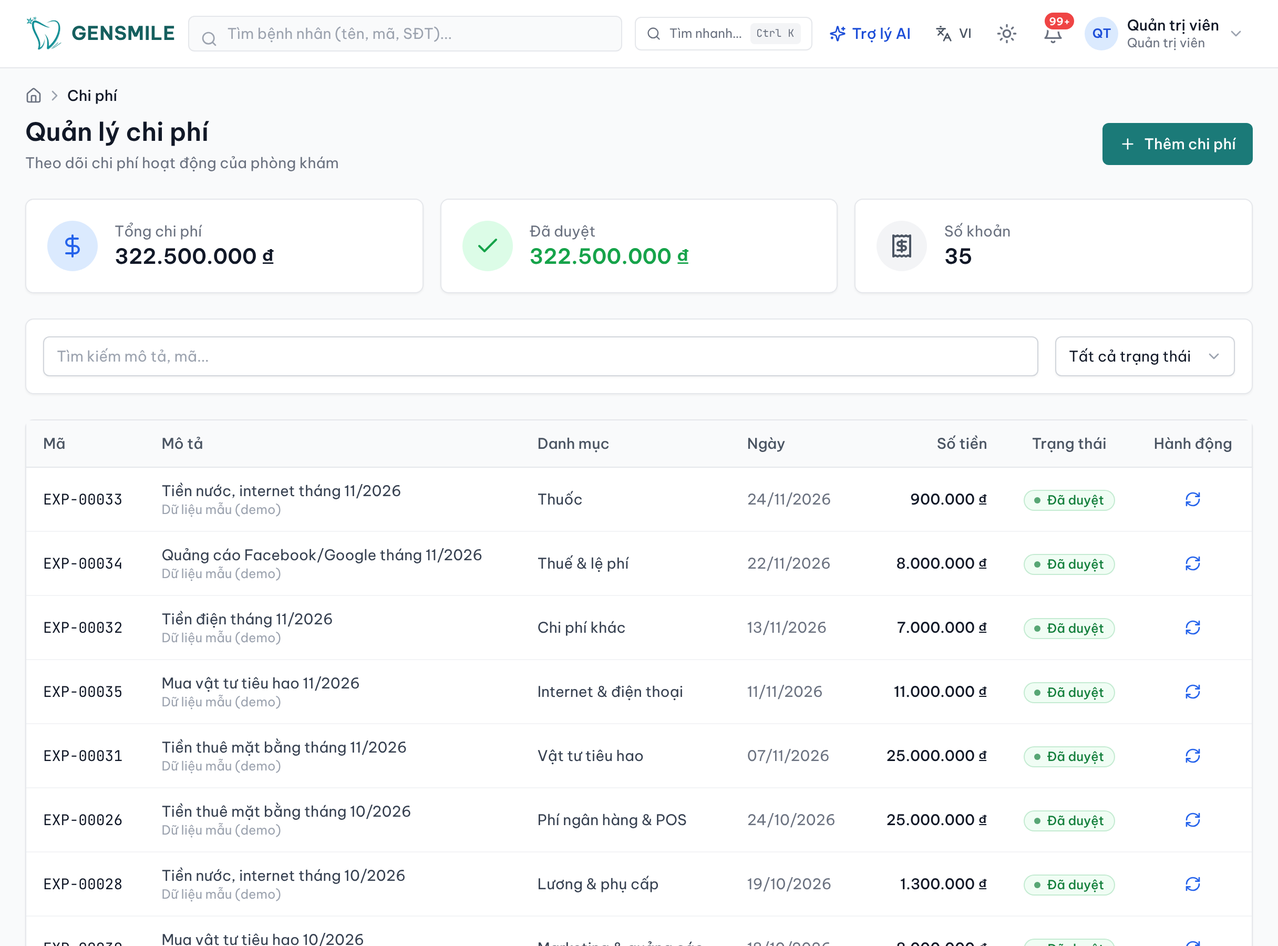
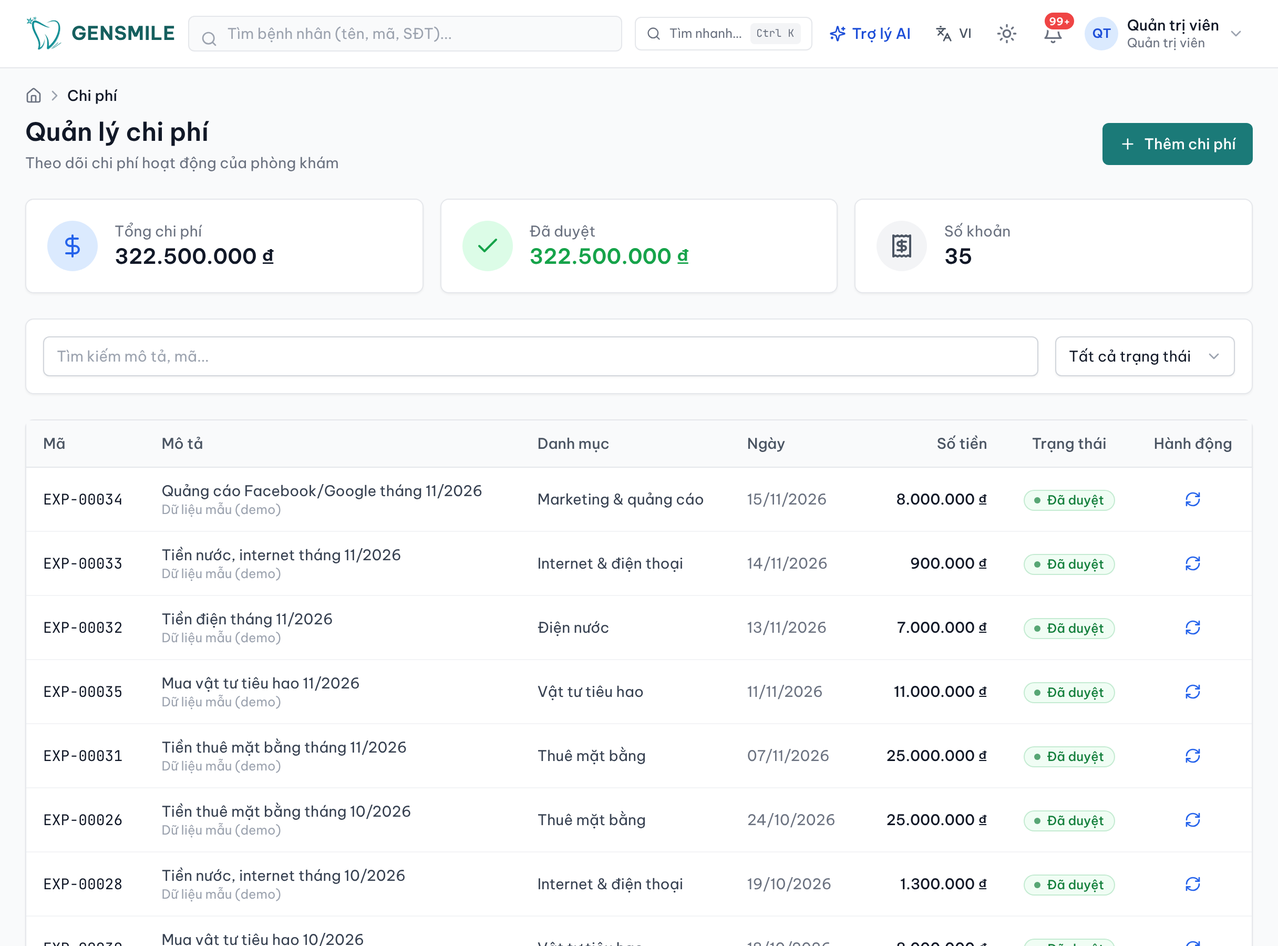
fix: nhãn tiếng Việt cho nhật ký kiểm toán, seed chi phí đúng danh mục; docs(thesis): chụp lại Hình 4.33, 4.39
Claude-Session: https://claude.ai/code/session_01TBoubatqgAjjLj8yNYh2bv

diff --git a/frontend/src/locales/uiWorkforce.ts b/frontend/src/locales/uiWorkforce.ts
@@ -23,7 +23,7 @@ export const vi = {
   groupCode: 'Mã nhóm', groupName: 'Tên nhóm', displayOrder: 'Thứ tự hiển thị', createCategoryFirst: 'Tạo nhóm dịch vụ trước', serviceImpactError: 'Không kiểm tra được dịch vụ', serviceDeactivated: 'Đã ngừng dịch vụ; các phân công đang chạy kết thúc hôm nay', serviceRestoredAssignments: 'Đã mở lại dịch vụ và khôi phục {{count}} phân công', serviceReactivated: 'Đã mở lại dịch vụ', serviceStatusError: 'Không đổi được trạng thái', groupStatusError: 'Không đổi được trạng thái nhóm', discontinued: 'Đã ngừng', paidAssignmentsWarning: '{{count}} phân công có giá riêng > 0: trang chủ sẽ hiện giá đó', editServiceNamed: 'Sửa {{name}}', discontinue: 'Ngừng', reopen: 'Mở lại', editGroupNamed: 'Sửa nhóm {{name}}', categoryCreated: 'Đã tạo nhóm dịch vụ',
   confirmDiscontinueService: 'Ngừng dịch vụ {{name}}?', discontinueService: 'Ngừng dịch vụ', serviceHasBookings: 'Đang có', upcomingAppointmentCount: '{{count}} lịch hẹn sắp tới', pendingBookingCount: '{{count}} yêu cầu đặt lịch online đang chờ xử lý', and: 'và', serviceBookingsWarning: 'dùng dịch vụ này. Chúng không bị hủy: lịch đã đặt vẫn dời được và khi khám vẫn ghi được dịch vụ theo giá đã chốt. Nếu không làm dịch vụ này nữa, hãy báo khách và hủy rồi đặt lại lịch.', noServiceBookings: 'Không có lịch hẹn sắp tới hay yêu cầu online đang chờ dùng dịch vụ này.', openAssignmentCount: '{{count}} phân công bác sĩ sẽ', assignmentEndToday: 'kết thúc hôm nay; phân công chưa bắt đầu sẽ bị hủy. Khi mở lại dịch vụ, bạn có thể khôi phục chúng.', confirmReopenService: 'Mở lại dịch vụ {{name}}?', restorableAssignments: '{{count}} phân công bác sĩ có thể được khôi phục từ hôm nay, giữ nguyên giá và thời lượng riêng. Khôi phục luôn hay phân công lại sau?', noRestorableAssignments: 'Không có phân công nào để khôi phục. Sau khi mở lại, hãy phân công bác sĩ ở trang Bác sĩ.', reopenOnly: 'Chỉ mở lại dịch vụ', reopenRestoreAssignments: 'Mở lại và khôi phục phân công',
   shiftCancelTooLate: 'Ca làm việc cần được hủy trước ít nhất 24 giờ.', shiftCancelError: 'Không thể hủy ca làm việc.', shiftApprovalTitle: 'Duyệt đăng ký ca làm việc', shiftApprovalAdminTitle: 'Duyệt đăng ký ca làm việc (quản trị)', shiftRequestsWaiting: '{{count}} yêu cầu đang chờ duyệt', shiftApproveSelected: 'Duyệt {{count}} ca', shiftNoPendingRequests: 'Không có đăng ký ca đang chờ duyệt.', shiftAllProcessed: 'Đã xử lý tất cả đăng ký ca.', shiftDate: 'Ngày', shiftTime: 'Giờ', shiftMaxPatients: 'Số bệnh nhân tối đa', shiftRegisteredAt: 'Ngày đăng ký', shiftApprove: 'Duyệt', shiftReject: 'Từ chối', shiftRejectTitle: 'Từ chối đăng ký ca', shiftRejectReason: 'Lý do từ chối', shiftRejectPlaceholder: 'Nhập lý do từ chối (ít nhất 5 ký tự)...', shiftRegisterTitle: 'Đăng ký ca làm việc', shiftStartTime: 'Giờ bắt đầu', shiftEndTime: 'Giờ kết thúc', shiftOptionalMaxPatients: 'Số bệnh nhân tối đa (không bắt buộc)', shiftOptionalNotes: 'Ghi chú (không bắt buộc)', shiftNotesPlaceholder: 'Ví dụ: ca đặc biệt ngày lễ', shiftRegisterSuccess: 'Đã đăng ký ca làm việc.', shiftRegisterError: 'Không thể đăng ký ca làm việc.', shiftTimeRangeInvalid: 'Giờ kết thúc phải sau giờ bắt đầu.', shiftApproved: 'Đã duyệt ca làm việc.', shiftApproveError: 'Không thể duyệt ca làm việc.', shiftBulkApproveResult: 'Đã duyệt {{approved}}/{{total}} ca; {{failed}} ca thất bại.', shiftBulkApproved: 'Đã duyệt {{count}} ca.', shiftRejected: 'Đã từ chối đăng ký ca.', shiftRejectError: 'Không thể từ chối đăng ký ca.',
-  rolesCreateSuccess: 'Đã tạo vai trò.', rolesCreateError: 'Không thể tạo vai trò.', rolesUpdateSuccess: 'Đã cập nhật vai trò.', rolesUpdateError: 'Không thể cập nhật vai trò.', rolesDeleteSuccess: 'Đã xóa vai trò.', rolesDeleteError: 'Không thể xóa vai trò.', rolesTitle: 'Vai trò và quyền', rolesDescription: 'Quản lý quyền truy cập của nhân viên', rolesCreate: 'Tạo vai trò', rolesCode: 'Mã vai trò', rolesName: 'Tên vai trò', rolesUsers: 'Người dùng', rolesSystem: 'Hệ thống', roleEditTitle: 'Sửa vai trò: {{name}}', roleCreateTitle: 'Tạo vai trò mới', roleNamePlaceholder: 'Ví dụ: Bác sĩ cao cấp', roleDescriptionPlaceholder: 'Mô tả ngắn về vai trò này', rolePermissions: 'Quyền', roleCancel: 'Hủy', roleSave: 'Lưu thay đổi / Tạo', auditTitle: 'Nhật ký kiểm toán', auditDescription: 'Theo dõi hoạt động trên toàn hệ thống', auditExport: 'Xuất CSV (tất cả dòng đã lọc)', auditSearch: 'Tìm kiếm…', auditFilterAction: 'Lọc theo hành động', auditAllActions: 'Tất cả hành động', auditFilterTarget: 'Lọc theo đối tượng', auditAllTargets: 'Tất cả đối tượng', auditAction: 'Hành động', auditTarget: 'Đối tượng', auditActor: 'Người thực hiện', auditTime: 'Thời gian', auditEntityId: 'Mã đối tượng', auditExportLimit: 'Chỉ xuất {{count}} dòng mới nhất. Thu hẹp khoảng ngày để xuất phần còn lại.', auditExportError: 'Không thể xuất nhật ký. Vui lòng thử lại.', auditSystem: 'Hệ thống', auditNoLogs: 'Chưa có mục nhật ký nào', auditLoadMore: 'Tải thêm', auditDateFrom: 'Từ ngày', auditDateTo: 'Đến ngày', auditIp: 'Địa chỉ IP', auditInvoiceIssued: 'Đã phát hành hóa đơn', auditInvoiceVoid: 'Đã hủy hóa đơn', auditPaymentCreated: 'Đã ghi nhận thanh toán', auditPaymentReversed: 'Đã đảo thanh toán', auditUserCreated: 'Đã tạo người dùng', auditUserUpdated: 'Đã cập nhật người dùng', auditUserDeactivated: 'Đã vô hiệu hóa người dùng', auditPasswordReset: 'Đã đặt lại mật khẩu', auditEncounterCreated: 'Đã tạo phiên khám', auditEncounterClosed: 'Đã đóng phiên khám', auditInventoryAdjusted: 'Đã điều chỉnh tồn kho', auditUserRoleChanged: 'Đã đổi vai trò người dùng', auditRolePermissionsChanged: 'Đã đổi quyền của vai trò', auditLoginFailed: 'Đăng nhập thất bại', auditEntityUser: 'Người dùng', auditEntityAppointment: 'Lịch hẹn', auditEntityPatient: 'Bệnh nhân', auditEntityEncounter: 'Phiên khám', auditEntityInvoice: 'Hóa đơn', auditEntityPayment: 'Thanh toán', auditEntityInventory: 'Vật tư', auditEntityRole: 'Vai trò',
+  rolesCreateSuccess: 'Đã tạo vai trò.', rolesCreateError: 'Không thể tạo vai trò.', rolesUpdateSuccess: 'Đã cập nhật vai trò.', rolesUpdateError: 'Không thể cập nhật vai trò.', rolesDeleteSuccess: 'Đã xóa vai trò.', rolesDeleteError: 'Không thể xóa vai trò.', rolesTitle: 'Vai trò và quyền', rolesDescription: 'Quản lý quyền truy cập của nhân viên', rolesCreate: 'Tạo vai trò', rolesCode: 'Mã vai trò', rolesName: 'Tên vai trò', rolesUsers: 'Người dùng', rolesSystem: 'Hệ thống', roleEditTitle: 'Sửa vai trò: {{name}}', roleCreateTitle: 'Tạo vai trò mới', roleNamePlaceholder: 'Ví dụ: Bác sĩ cao cấp', roleDescriptionPlaceholder: 'Mô tả ngắn về vai trò này', rolePermissions: 'Quyền', roleCancel: 'Hủy', roleSave: 'Lưu thay đổi / Tạo', auditTitle: 'Nhật ký kiểm toán', auditDescription: 'Theo dõi hoạt động trên toàn hệ thống', auditExport: 'Xuất CSV (tất cả dòng đã lọc)', auditSearch: 'Tìm kiếm…', auditFilterAction: 'Lọc theo hành động', auditAllActions: 'Tất cả hành động', auditFilterTarget: 'Lọc theo đối tượng', auditAllTargets: 'Tất cả đối tượng', auditAction: 'Hành động', auditTarget: 'Đối tượng', auditActor: 'Người thực hiện', auditTime: 'Thời gian', auditEntityId: 'Mã đối tượng', auditExportLimit: 'Chỉ xuất {{count}} dòng mới nhất. Thu hẹp khoảng ngày để xuất phần còn lại.', auditExportError: 'Không thể xuất nhật ký. Vui lòng thử lại.', auditSystem: 'Hệ thống', auditNoLogs: 'Chưa có mục nhật ký nào', auditLoadMore: 'Tải thêm', auditDateFrom: 'Từ ngày', auditDateTo: 'Đến ngày', auditIp: 'Địa chỉ IP', auditInvoiceIssued: 'Đã phát hành hóa đơn', auditInvoiceVoid: 'Đã hủy hóa đơn', auditPaymentCreated: 'Đã ghi nhận thanh toán', auditMedicalRecordRead: 'Xem hồ sơ bệnh án', auditLoginSuccess: 'Đăng nhập', auditAppointmentAutoNoShow: 'Tự đánh vắng mặt', auditAppointmentCreated: 'Đặt lịch hẹn', auditAppointmentCompleted: 'Hoàn tất lịch hẹn', auditExamStarted: 'Bắt đầu khám', auditCheckinOverridden: 'Check-in ngoài giờ (có lý do)', auditAppointmentLeft: 'Khách về trước khi khám', auditShiftRegistered: 'Đăng ký ca', auditBookingSubmitted: 'Khách gửi yêu cầu đặt lịch', auditAiChat: 'Hỏi trợ lý AI', auditHistoryViewed: 'Bệnh nhân xem lịch sử khám', auditHistoryLinkIssued: 'Cấp đường dẫn tra cứu lịch sử', auditClinicalNoteSaved: 'Lưu ghi chú lâm sàng', auditPrescriptionCreated: 'Kê đơn thuốc', auditTreatmentCreated: 'Thêm điều trị', auditPeriodCreated: 'Tạo kỳ lương', auditPeriodComputed: 'Tính lương', auditPeriodLocked: 'Khóa số liệu kỳ lương', auditConsentWithdrawn: 'Rút lại đồng thuận', auditBankTransferRecorded: 'Tự ghi chuyển khoản', auditBankTransferFlagged: 'Chuyển khoản cần xử lý', auditRefreshReuse: 'Phát hiện dùng lại phiên', auditAllergyOverride: 'Kê đơn vượt cảnh báo dị ứng', auditPaymentReversed: 'Đã đảo thanh toán', auditUserCreated: 'Đã tạo người dùng', auditUserUpdated: 'Đã cập nhật người dùng', auditUserDeactivated: 'Đã vô hiệu hóa người dùng', auditPasswordReset: 'Đã đặt lại mật khẩu', auditEncounterCreated: 'Đã tạo phiên khám', auditEncounterClosed: 'Đã đóng phiên khám', auditInventoryAdjusted: 'Đã điều chỉnh tồn kho', auditUserRoleChanged: 'Đã đổi vai trò người dùng', auditRolePermissionsChanged: 'Đã đổi quyền của vai trò', auditLoginFailed: 'Đăng nhập thất bại', auditEntityUser: 'Người dùng', auditEntityAppointment: 'Lịch hẹn', auditEntityPatient: 'Bệnh nhân', auditEntityEncounter: 'Phiên khám', auditEntityInvoice: 'Hóa đơn', auditEntityPayment: 'Thanh toán', auditEntityInventory: 'Vật tư', auditEntityRole: 'Vai trò', auditEntityBookingRequest: 'Yêu cầu đặt lịch', auditEntityShift: 'Ca làm việc', auditEntityPayrollPeriod: 'Kỳ lương', auditEntityAi: 'Trợ lý AI', auditEntityConsent: 'Đồng thuận', auditEntityBankTransaction: 'Giao dịch ngân hàng',
   auditExporting: 'Đang xuất…', payrollMissingCompensation: 'Chưa cấu hình chính sách lương.', payrollAddCompensation: 'Thêm chính sách lương', payrollNoCompensation: 'Chưa có chính sách lương.', payrollBaseSalary: 'Lương cơ bản', payrollCommission: 'Hoa hồng', payrollEffectiveFrom: 'Có hiệu lực từ', payrollSelfApprovalTitle: 'Bạn đang duyệt lương của chính mình', payrollSelfApprovalDescription: 'Chỉ cho phép khi phòng khám không có quản trị viên nào khác; hành động được ghi nhật ký riêng.', payrollSelfApprovalReason: 'Lý do tự duyệt', payrollCancel: 'Hủy', payrollCreate: 'Tạo', payrollSave: 'Lưu', payrollAddAdjustment: 'Thêm điều chỉnh', payrollAdjustmentType: 'Loại điều chỉnh', payrollAdjustmentBonus: 'Thưởng (+)', payrollAdjustmentPenalty: 'Phạt (−)', payrollAdjustmentDeduction: 'Khấu trừ (−)', payrollAdjustmentManual: 'Điều chỉnh thủ công', payrollAmountVnd: 'Số tiền (VND)', payrollReason: 'Lý do', payrollAdjustmentAuditNotice: 'Mọi điều chỉnh được ghi nhật ký; điều chỉnh thủ công được ghi riêng ở mức HIGH.', payrollBonusHelp: 'Số tiền dương được cộng vào lương thực nhận.', payrollPenaltyHelp: 'Nhập số dương; số tiền sẽ bị trừ khỏi lương thực nhận.', payrollDeductionHelp: 'Số tiền dương sẽ bị khấu trừ (ví dụ: tạm ứng).', payrollManualHelp: 'Điều chỉnh thủ công; lý do phải có ít nhất 50 ký tự (BR-PAY-018).', payrollMarkPaidTitle: 'Xác nhận đã trả lương', payrollMarkPaidDescription: 'Chuyển từ APPROVED sang PAID; tự khóa sau 7 ngày.', payrollPaymentReference: 'Mã tham chiếu thanh toán', payrollPaymentDate: 'Ngày thanh toán', payrollDetailTitle: 'Chi tiết tính lương — {{name}}', payrollComputationLog: 'Nhật ký tính toán (JSON)', payrollHide: 'Ẩn', payrollShow: 'Hiện', payrollNoAdjustments: 'Không có điều chỉnh', payrollInvoiceLines: 'Các hóa đơn tính hoa hồng', payrollInvoiceLineDescription: 'Hóa đơn đã phát hành trong kỳ; số tiền đã trừ phần giảm giá phân bổ.', payrollNoEncounters: 'Không có phiên khám', payrollEncounterDate: 'Ngày khám', payrollInvoice: 'Hóa đơn', payrollCommissionBasis: 'Căn cứ tính hoa hồng', payrollConfigTitle: 'Cấu hình lương', payrollConfigDescription: 'Thiết lập quy tắc tính lương của phòng khám', payrollCycle: 'Chu kỳ lương', payrollOvertimeAndProbation: 'Làm thêm giờ và thử việc', payrollOvertimeMultiplier: 'Hệ số làm thêm giờ', payrollProbationPercentage: 'Phần trăm lương thử việc', payrollTaxAndInsurance: 'Thuế và bảo hiểm', payrollMinimumInsuranceSalary: 'Mức lương tối thiểu đóng bảo hiểm xã hội', payrollSaveConfig: 'Lưu cài đặt', payrollWarnDraftInvoices: 'Hóa đơn nháp cần xem xét', payrollWarnNoCompensation: 'Bác sĩ chưa có chính sách lương', payrollWarnOutOfHours: 'Phiên khám ngoài giờ làm việc', payrollWarnTerminated: 'Nhân viên đã nghỉ trong kỳ', payrollCalcWarnings: 'Kiểm tra trước khi chốt kỳ', payrollGross: 'Tổng lương', payrollNet: 'Thực nhận', payrollDeductions: 'Tổng khấu trừ', payrollNoPeriod: 'Không tìm thấy kỳ lương', payrollBackToPeriods: 'Các kỳ lương', payrollCalculate: 'Tính lương', payrollLock: 'Khóa kỳ', payrollReviewApprove: 'Duyệt kỳ lương', payrollPaid: 'Đánh dấu đã trả', payrollSelfApprovalRequired: 'Nhập lý do tự duyệt (ít nhất {{count}} ký tự)', payrollCalculatedToast: 'Đã tính lương', payrollLockToast: 'Đã khóa kỳ lương (chuyển sang REVIEWING)', payrollApproveToast: 'Đã duyệt kỳ lương', payrollError: 'Không thể hoàn tất thao tác lương.', payrollMinMultiplierError: 'Hệ số tối thiểu là 1,0.', payrollOvertimeExample: 'Ví dụ: 1,5 = 150% lương cơ bản', payrollProbationExample: 'Ví dụ: 85 = 85% lương chính thức', payrollIncomeTaxDefault: 'Thuế thu nhập cá nhân mặc định', payrollSocialInsurance: 'Bảo hiểm xã hội', payrollHealthInsurance: 'Bảo hiểm y tế', payrollUnemploymentInsurance: 'Bảo hiểm thất nghiệp', payrollPercentExample: '%, ví dụ 10 = 10%', payrollConfigLoadFallback: 'Không tải được cài đặt hiện tại; sẽ dùng giá trị mặc định khi lưu.', payrollConfigSaved: 'Đã lưu cài đặt lương.', payrollConfigSaveError: 'Không thể lưu cài đặt lương.',
   payrollWarningCardTitle: 'Kiểm tra trước khi khóa kỳ lương', payrollDraftInvoiceWarning: '{{count}} hóa đơn nháp quá {{days}} ngày chưa được phát hành', payrollDraftInvoiceInstructions: 'Hoa hồng chỉ tính từ hóa đơn đã phát hành. Nhờ lễ tân phát hành hóa đơn (hoặc hủy hóa đơn sai), sau đó tính lại.', payrollOtherDraftInvoices: '… và {{count}} hóa đơn khác', payrollDentistsMissingPay: 'Bác sĩ có phiên khám nhưng chưa có chính sách lương', payrollMissingPayDescription: 'Chưa cấu hình lương cơ bản hoặc hoa hồng. Thêm chính sách rồi tính lại.', payrollDentistEncounterCount: '{{count}} phiên khám', payrollOutsideHoursTitle: 'Phiên khám ngoài giờ làm việc đã lên lịch', payrollOutsideHoursDescription: 'Nếu đây là giờ làm thêm thực tế, hãy ghi nhận thay đổi lịch hoặc đăng ký ca cho ngày đó rồi tính lại.', payrollOutsideDuration: '{{minutes}} phút ngoài giờ làm việc', payrollTerminatedDuringPeriod: 'Nhân viên nghỉ trong kỳ này (lương được tính đến ngày nghỉ)', payrollNotFound: 'Không tìm thấy kỳ lương', payrollNotFoundDescription: 'Kỳ lương có thể đã bị xóa hoặc bạn không có quyền xem.', payrollComputedToast: 'Đã tính lương cho kỳ này', payrollComputeError: 'Không thể tính lương', payrollLockSuccess: 'Đã khóa kỳ lương (chuyển sang REVIEWING)', payrollLockError: 'Không thể khóa kỳ lương', payrollApprovedToast: 'Đã duyệt kỳ lương', payrollApproveError: 'Không thể duyệt kỳ lương', payrollCommissionCalculationNote: 'Hoa hồng tính theo hóa đơn đã phát hành trong kỳ, sau giảm giá. Giờ làm việc tính theo lịch làm việc, trừ ngày phòng khám đóng cửa và ngày nghỉ đã duyệt.', payrollGrossTotal: 'Tổng lương', payrollNetTotal: 'Thực nhận', payrollTaxTotal: 'Thuế thu nhập cá nhân', payrollSocialInsuranceTotal: 'Bảo hiểm xã hội', payrollDentistCount: 'Bác sĩ ({{count}})', payrollNoLineItems: 'Chưa có dữ liệu lương', payrollComputeToCreateItems: 'Tính lương để tạo các mục chi tiết cho từng bác sĩ', payrollPeriodNotCalculated: 'Kỳ này chưa được tính lương', payrollDentist: 'Bác sĩ', payrollEncounters: 'Phiên khám', payrollHoursWorked: 'Số giờ làm', payrollOvertimeHours: 'Làm thêm (giờ)', payrollAdjusted: 'Đã điều chỉnh', payrollViewDetails: 'Xem chi tiết', payrollAdjust: 'Điều chỉnh', payrollSelfApproveTitle: 'Bạn đang duyệt kỳ lương có phiếu lương của chính mình', payrollSelfApproveDescription: 'Kỳ này có phiếu lương của bạn (thực nhận {{amount}}). Chỉ được tự duyệt khi phòng khám không có quản trị viên khác; hành động được ghi riêng (PAYROLL_SELF_APPROVED).', payrollSelfApprove: 'Tự duyệt lương của tôi', payrollLockWarningsTitle: 'Khóa kỳ lương khi còn cảnh báo?', payrollLockWarningsDescription: 'Còn {{count}} mục cần xem xét (xem cảnh báo ở trên). Bạn có thể tính lại sau khi khóa trong trạng thái REVIEWING.', payrollLockAnyway: 'Vẫn khóa',
   days: 'ngày', payrollSelfApprovalPlaceholder: 'Ví dụ: phòng khám chỉ có một quản trị viên',

diff --git a/frontend/src/locales/en/uiWorkforce.ts b/frontend/src/locales/en/uiWorkforce.ts
@@ -22,7 +22,7 @@ export const en = {
   addServiceGroup: 'Add category', servicesLoadError: 'Could not load the service catalog.', noServiceGroups: 'There are no active service categories. Create a category before adding a service.', stoppedGroup: 'Category discontinued', stopGroup: 'Discontinue category', reopenGroup: 'Reopen category', serviceGroup: 'Service category', noServicesInGroup: 'No services in this category yet.', noOnlineBooking: 'Online booking disabled', hiddenPrice: 'Hidden from price list', noCharge: 'Free', editService: 'Edit service', saveService: 'Service saved', saveServiceError: 'Could not save service', saveGroup: 'Category saved', saveGroupError: 'Could not save category',
   groupCode: 'Category code', groupName: 'Category name', displayOrder: 'Display order', createCategoryFirst: 'Create a service category first', serviceImpactError: 'Could not check service impact', serviceDeactivated: 'Service discontinued; current assignments end today', serviceRestoredAssignments: 'Service reopened and {{count}} assignments restored', serviceReactivated: 'Service reopened', serviceStatusError: 'Could not change status', groupStatusError: 'Could not change category status', discontinued: 'Discontinued', paidAssignmentsWarning: '{{count}} assignments have a custom price above 0; the homepage will show that price', editServiceNamed: 'Edit {{name}}', discontinue: 'Discontinue', reopen: 'Reopen', editGroupNamed: 'Edit category {{name}}', categoryCreated: 'Category created',
   confirmDiscontinueService: 'Discontinue service {{name}}?', discontinueService: 'Discontinue service', serviceHasBookings: 'There are', upcomingAppointmentCount: '{{count}} upcoming appointments', pendingBookingCount: '{{count}} pending online booking requests', and: 'and', serviceBookingsWarning: 'using this service. They will not be cancelled: booked appointments can still be moved, and the service can still be recorded at its agreed price during an encounter. If the service will not be provided, notify the patient, cancel, and rebook.', noServiceBookings: 'No upcoming appointments or pending online requests use this service.', openAssignmentCount: '{{count}} dentist assignments will', assignmentEndToday: 'end today; assignments that have not started will be cancelled. You can restore them if the service is reopened.', confirmReopenService: 'Reopen service {{name}}?', restorableAssignments: '{{count}} dentist assignments can be restored from today with their custom prices and durations. Restore them now or reassign later?', noRestorableAssignments: 'There are no assignments to restore. Assign dentists on the Dentists page after reopening.', reopenOnly: 'Reopen service only', reopenRestoreAssignments: 'Reopen and restore assignments',
-  shiftCancelTooLate: 'A shift must be cancelled at least 24 hours beforehand.', shiftCancelError: 'Unable to cancel shift.', shiftApprovalTitle: 'Shift registration approvals', shiftApprovalAdminTitle: 'Shift registration approvals (Admin)', shiftRequestsWaiting: '{{count}} requests awaiting approval', shiftApproveSelected: 'Approve {{count}} shifts', shiftNoPendingRequests: 'No shift registrations awaiting approval.', shiftAllProcessed: 'All shift registrations have been processed.', shiftDate: 'Date', shiftTime: 'Time', shiftMaxPatients: 'Maximum patients', shiftRegisteredAt: 'Registered', shiftApprove: 'Approve', shiftReject: 'Reject', shiftRejectTitle: 'Reject shift registration', shiftRejectReason: 'Rejection reason', shiftRejectPlaceholder: 'Enter a rejection reason (at least 5 characters)...', shiftRegisterTitle: 'Register a work shift', shiftStartTime: 'Start time', shiftEndTime: 'End time', shiftOptionalMaxPatients: 'Maximum patients (optional)', shiftOptionalNotes: 'Notes (optional)', shiftNotesPlaceholder: 'E.g. special shift for a holiday', shiftRegisterSuccess: 'Shift registered.', shiftRegisterError: 'Unable to register shift.', shiftTimeRangeInvalid: 'End time must be after start time.', shiftApproved: 'Shift approved.', shiftApproveError: 'Unable to approve shift.', shiftBulkApproveResult: 'Approved {{approved}}/{{total}} shifts; {{failed}} failed.', shiftBulkApproved: 'Approved {{count}} shifts.', shiftRejected: 'Shift registration rejected.', shiftRejectError: 'Unable to reject shift registration.', rolesCreateSuccess: 'Role created', rolesCreateError: 'Unable to create role', rolesUpdateSuccess: 'Role updated', rolesUpdateError: 'Unable to update role', rolesDeleteSuccess: 'Role deleted', rolesDeleteError: 'Unable to delete role', rolesTitle: 'Roles & Permissions', rolesDescription: 'Manage staff access', rolesCreate: 'Create role', rolesCode: 'Role code', rolesName: 'Role name', rolesUsers: 'Users', rolesSystem: 'System', roleEditTitle: 'Edit role: {{name}}', roleCreateTitle: 'Create new role', roleNamePlaceholder: 'E.g. Senior dentist', roleDescriptionPlaceholder: 'Brief description of this role', rolePermissions: 'Permissions', roleCancel: 'Cancel', roleSave: 'Save changes / Create', auditTitle: 'Audit log', auditDescription: 'Track activity across the system', auditExport: 'Export CSV (all filtered rows)', auditSearch: 'Search…', auditFilterAction: 'Filter by action', auditAllActions: 'All actions', auditFilterTarget: 'Filter by target', auditAllTargets: 'All targets', auditAction: 'Action', auditTarget: 'Target', auditActor: 'Performed by', auditTime: 'Time', auditEntityId: 'Target ID', auditExportLimit: 'Only the latest {{count}} rows are exported. Narrow the date range to export the rest.', auditExportError: 'Unable to export audit log. Please try again.', auditSystem: 'System', auditNoLogs: 'No audit log entries', auditLoadMore: 'Load more', auditDateFrom: 'From date', auditDateTo: 'To date', auditIp: 'IP', auditInvoiceIssued: 'Invoice issued', auditInvoiceVoid: 'Invoice voided', auditPaymentCreated: 'Payment recorded', auditPaymentReversed: 'Payment reversed', auditUserCreated: 'User created', auditUserUpdated: 'User updated', auditUserDeactivated: 'User deactivated', auditPasswordReset: 'Password reset', auditEncounterCreated: 'Encounter created', auditEncounterClosed: 'Encounter closed', auditInventoryAdjusted: 'Inventory adjusted', auditUserRoleChanged: 'User roles changed', auditRolePermissionsChanged: 'Role permissions changed', auditLoginFailed: 'Failed sign-in', auditEntityUser: 'User', auditEntityAppointment: 'Appointment', auditEntityPatient: 'Patient', auditEntityEncounter: 'Encounter', auditEntityInvoice: 'Invoice', auditEntityPayment: 'Payment', auditEntityInventory: 'Inventory item', auditEntityRole: 'Role',
+  shiftCancelTooLate: 'A shift must be cancelled at least 24 hours beforehand.', shiftCancelError: 'Unable to cancel shift.', shiftApprovalTitle: 'Shift registration approvals', shiftApprovalAdminTitle: 'Shift registration approvals (Admin)', shiftRequestsWaiting: '{{count}} requests awaiting approval', shiftApproveSelected: 'Approve {{count}} shifts', shiftNoPendingRequests: 'No shift registrations awaiting approval.', shiftAllProcessed: 'All shift registrations have been processed.', shiftDate: 'Date', shiftTime: 'Time', shiftMaxPatients: 'Maximum patients', shiftRegisteredAt: 'Registered', shiftApprove: 'Approve', shiftReject: 'Reject', shiftRejectTitle: 'Reject shift registration', shiftRejectReason: 'Rejection reason', shiftRejectPlaceholder: 'Enter a rejection reason (at least 5 characters)...', shiftRegisterTitle: 'Register a work shift', shiftStartTime: 'Start time', shiftEndTime: 'End time', shiftOptionalMaxPatients: 'Maximum patients (optional)', shiftOptionalNotes: 'Notes (optional)', shiftNotesPlaceholder: 'E.g. special shift for a holiday', shiftRegisterSuccess: 'Shift registered.', shiftRegisterError: 'Unable to register shift.', shiftTimeRangeInvalid: 'End time must be after start time.', shiftApproved: 'Shift approved.', shiftApproveError: 'Unable to approve shift.', shiftBulkApproveResult: 'Approved {{approved}}/{{total}} shifts; {{failed}} failed.', shiftBulkApproved: 'Approved {{count}} shifts.', shiftRejected: 'Shift registration rejected.', shiftRejectError: 'Unable to reject shift registration.', rolesCreateSuccess: 'Role created', rolesCreateError: 'Unable to create role', rolesUpdateSuccess: 'Role updated', rolesUpdateError: 'Unable to update role', rolesDeleteSuccess: 'Role deleted', rolesDeleteError: 'Unable to delete role', rolesTitle: 'Roles & Permissions', rolesDescription: 'Manage staff access', rolesCreate: 'Create role', rolesCode: 'Role code', rolesName: 'Role name', rolesUsers: 'Users', rolesSystem: 'System', roleEditTitle: 'Edit role: {{name}}', roleCreateTitle: 'Create new role', roleNamePlaceholder: 'E.g. Senior dentist', roleDescriptionPlaceholder: 'Brief description of this role', rolePermissions: 'Permissions', roleCancel: 'Cancel', roleSave: 'Save changes / Create', auditTitle: 'Audit log', auditDescription: 'Track activity across the system', auditExport: 'Export CSV (all filtered rows)', auditSearch: 'Search…', auditFilterAction: 'Filter by action', auditAllActions: 'All actions', auditFilterTarget: 'Filter by target', auditAllTargets: 'All targets', auditAction: 'Action', auditTarget: 'Target', auditActor: 'Performed by', auditTime: 'Time', auditEntityId: 'Target ID', auditExportLimit: 'Only the latest {{count}} rows are exported. Narrow the date range to export the rest.', auditExportError: 'Unable to export audit log. Please try again.', auditSystem: 'System', auditNoLogs: 'No audit log entries', auditLoadMore: 'Load more', auditDateFrom: 'From date', auditDateTo: 'To date', auditIp: 'IP', auditInvoiceIssued: 'Invoice issued', auditInvoiceVoid: 'Invoice voided', auditPaymentCreated: 'Payment recorded', auditMedicalRecordRead: 'Viewed medical record', auditLoginSuccess: 'Signed in', auditAppointmentAutoNoShow: 'Auto marked no-show', auditAppointmentCreated: 'Appointment booked', auditAppointmentCompleted: 'Appointment completed', auditExamStarted: 'Exam started', auditCheckinOverridden: 'Check-in override', auditAppointmentLeft: 'Left before exam', auditShiftRegistered: 'Shift registered', auditBookingSubmitted: 'Booking request submitted', auditAiChat: 'AI assistant chat', auditHistoryViewed: 'Patient viewed history', auditHistoryLinkIssued: 'History link issued', auditClinicalNoteSaved: 'Clinical note saved', auditPrescriptionCreated: 'Prescription created', auditTreatmentCreated: 'Treatment added', auditPeriodCreated: 'Payroll period created', auditPeriodComputed: 'Payroll computed', auditPeriodLocked: 'Payroll period locked', auditConsentWithdrawn: 'Consent withdrawn', auditBankTransferRecorded: 'Bank transfer recorded', auditBankTransferFlagged: 'Bank transfer flagged', auditRefreshReuse: 'Session reuse detected', auditAllergyOverride: 'Allergy warning overridden', auditPaymentReversed: 'Payment reversed', auditUserCreated: 'User created', auditUserUpdated: 'User updated', auditUserDeactivated: 'User deactivated', auditPasswordReset: 'Password reset', auditEncounterCreated: 'Encounter created', auditEncounterClosed: 'Encounter closed', auditInventoryAdjusted: 'Inventory adjusted', auditUserRoleChanged: 'User roles changed', auditRolePermissionsChanged: 'Role permissions changed', auditLoginFailed: 'Failed sign-in', auditEntityUser: 'User', auditEntityAppointment: 'Appointment', auditEntityPatient: 'Patient', auditEntityEncounter: 'Encounter', auditEntityInvoice: 'Invoice', auditEntityPayment: 'Payment', auditEntityInventory: 'Inventory item', auditEntityRole: 'Role', auditEntityBookingRequest: 'Booking request', auditEntityShift: 'Shift', auditEntityPayrollPeriod: 'Payroll period', auditEntityAi: 'AI assistant', auditEntityConsent: 'Consent', auditEntityBankTransaction: 'Bank transaction',
   auditExporting: 'Exporting…', payrollMissingCompensation: 'No pay policy configured.', payrollAddCompensation: 'Add pay policy', payrollNoCompensation: 'No pay policies yet.', payrollBaseSalary: 'Base salary', payrollCommission: 'Commission', payrollEffectiveFrom: 'Effective from', payrollSelfApprovalTitle: 'You are approving your own pay', payrollSelfApprovalDescription: 'Only allowed when the clinic has no other administrator; the action is separately audited.', payrollSelfApprovalReason: 'Self-approval reason', payrollCancel: 'Cancel', payrollCreate: 'Create', payrollSave: 'Save', payrollAddAdjustment: 'Add adjustment', payrollAdjustmentType: 'Adjustment type', payrollAdjustmentBonus: 'Bonus (+)', payrollAdjustmentPenalty: 'Penalty (−)', payrollAdjustmentDeduction: 'Deduction (−)', payrollAdjustmentManual: 'Manual override', payrollAmountVnd: 'Amount (VND)', payrollReason: 'Reason', payrollAdjustmentAuditNotice: 'Adjustments are audit logged; manual overrides are separately logged as HIGH.', payrollBonusHelp: 'Positive amounts add to net pay.', payrollPenaltyHelp: 'Enter a positive amount; it is deducted from net pay.', payrollDeductionHelp: 'A positive amount is deducted (e.g. an advance).', payrollManualHelp: 'Manual override; reason must be at least 50 characters (BR-PAY-018).', payrollMarkPaidTitle: 'Confirm payroll paid', payrollMarkPaidDescription: 'Transition APPROVED → PAID; auto-lock after 7 days.', payrollPaymentReference: 'Payment reference', payrollPaymentDate: 'Payment date', payrollDetailTitle: 'Payroll calculation details — {{name}}', payrollComputationLog: 'Computation log (JSON)', payrollHide: 'Hide', payrollShow: 'Show', payrollNoAdjustments: 'No adjustments', payrollInvoiceLines: 'Invoice lines included in commission', payrollInvoiceLineDescription: 'Issued invoices in this period; amounts after proportional invoice discount.', payrollNoEncounters: 'No encounters', payrollEncounterDate: 'Visit date', payrollInvoice: 'Invoice', payrollCommissionBasis: 'Commission basis', payrollConfigTitle: 'Payroll configuration', payrollConfigDescription: 'Set clinic payroll calculation rules', payrollCycle: 'Pay cycle', payrollOvertimeAndProbation: 'Overtime and probation', payrollOvertimeMultiplier: 'Overtime multiplier', payrollProbationPercentage: 'Probation pay %', payrollTaxAndInsurance: 'Tax and insurance', payrollMinimumInsuranceSalary: 'Minimum salary for social insurance', payrollSaveConfig: 'Save settings', payrollWarnDraftInvoices: 'Draft invoices needing review', payrollWarnNoCompensation: 'Dentists without pay policy', payrollWarnOutOfHours: 'Encounters outside scheduled work hours', payrollWarnTerminated: 'Employment ended during period', payrollCalcWarnings: 'Review before closing period', payrollGross: 'Gross total', payrollNet: 'Net pay', payrollDeductions: 'Total deductions', payrollNoPeriod: 'Pay period not found', payrollBackToPeriods: 'Pay periods', payrollCalculate: 'Calculate payroll', payrollLock: 'Lock period', payrollReviewApprove: 'Approve period', payrollPaid: 'Mark as paid', payrollSelfApprovalRequired: 'Enter self-approval reason (at least {{count}} characters)', payrollCalculatedToast: 'Payroll calculated', payrollLockToast: 'Pay period locked (moved to REVIEWING)', payrollApproveToast: 'Pay period approved', payrollError: 'Could not complete payroll action.', payrollMinMultiplierError: 'Must be at least 1.0', payrollOvertimeExample: 'E.g. 1.5 = 150% of base salary', payrollProbationExample: 'E.g. 85 = 85% of regular salary', payrollIncomeTaxDefault: 'Default personal income tax', payrollSocialInsurance: 'Social insurance', payrollHealthInsurance: 'Health insurance', payrollUnemploymentInsurance: 'Unemployment insurance', payrollPercentExample: '%, e.g. 10 = 10%', payrollConfigLoadFallback: 'Could not load current settings; defaults will be used when saving.', payrollConfigSaved: 'Payroll settings saved', payrollConfigSaveError: 'Could not save settings.',
   payrollWarningCardTitle: 'Review before locking the pay period', payrollDraftInvoiceWarning: '{{count}} draft invoice(s) older than {{days}} days have not been issued', payrollDraftInvoiceInstructions: 'Commission is calculated only from issued invoices. Ask reception to issue the invoices (or void incorrect ones), then recalculate.', payrollOtherDraftInvoices: '… and {{count}} more invoices', payrollDentistsMissingPay: 'Dentists with encounters but no pay policy', payrollMissingPayDescription: 'No base salary or commission is configured. Add a policy and recalculate.', payrollDentistEncounterCount: '{{count}} encounters', payrollOutsideHoursTitle: 'Encounters outside scheduled work hours', payrollOutsideHoursDescription: 'If these are actual overtime hours, record a schedule change or shift registration for that date, then recalculate.', payrollOutsideDuration: '{{minutes}} minutes outside scheduled hours', payrollTerminatedDuringPeriod: 'Employment ended during this period (pay calculated through termination date)', payrollNotFound: 'Pay period not found', payrollNotFoundDescription: 'This pay period may have been deleted or you may not have permission to view it', payrollComputedToast: 'Payroll calculated for this period', payrollComputeError: 'Could not calculate payroll', payrollLockSuccess: 'Pay period locked (moved to REVIEWING)', payrollLockError: 'Could not lock pay period', payrollApprovedToast: 'Pay period approved', payrollApproveError: 'Could not approve pay period', payrollCommissionCalculationNote: 'Commission uses issued invoices in the period, after discounts. Work hours use the work schedule minus clinic closures and approved leave.', payrollGrossTotal: 'Gross total', payrollNetTotal: 'Net total', payrollTaxTotal: 'Personal income tax', payrollSocialInsuranceTotal: 'Social insurance', payrollDentistCount: 'Dentists ({{count}})', payrollNoLineItems: 'No payroll data yet', payrollComputeToCreateItems: 'Calculate payroll to create line items for each dentist', payrollPeriodNotCalculated: 'This period has not been calculated', payrollDentist: 'Dentist', payrollEncounters: 'Encounters', payrollHoursWorked: 'Hours worked', payrollOvertimeHours: 'Overtime (hours)', payrollAdjusted: 'Adjusted', payrollViewDetails: 'View details', payrollAdjust: 'Adjust', payrollSelfApproveTitle: 'You are approving a pay period that includes your own payslip', payrollSelfApproveDescription: 'This period includes your payslip ({{amount}} net). Self-approval is allowed only if the clinic has no other administrator; this action is logged separately (PAYROLL_SELF_APPROVED).', payrollSelfApprove: 'Approve my own pay', payrollLockWarningsTitle: 'Lock period with warnings?', payrollLockWarningsDescription: '{{count}} items still need review (see the warnings above). You can recalculate after locking while the period is in REVIEWING.', payrollLockAnyway: 'Lock anyway',
   days: 'days', payrollSelfApprovalPlaceholder: 'E.g. the clinic has only one administrator',

diff --git a/frontend/src/features/admin/AuditLogsPage.tsx b/frontend/src/features/admin/AuditLogsPage.tsx
@@ -24,6 +24,30 @@ const ACTION_LABEL_KEYS: Record<string, string> = {
   USER_ROLE_CHANGED: 'auditUserRoleChanged', ROLE_PERMISSIONS_CHANGED: 'auditRolePermissionsChanged',
   ENCOUNTER_CLOSED: 'auditEncounterClosed', INVENTORY_ADJUSTMENT: 'auditInventoryAdjusted',
   LOGIN_FAILED: 'auditLoginFailed',
+  'proxy.medical_records.read': 'auditMedicalRecordRead',
+  LOGIN_SUCCESS: 'auditLoginSuccess',
+  APPOINTMENT_AUTO_NO_SHOW: 'auditAppointmentAutoNoShow',
+  APPOINTMENT_CREATED: 'auditAppointmentCreated',
+  APPOINTMENT_COMPLETED: 'auditAppointmentCompleted',
+  APPOINTMENT_EXAM_STARTED: 'auditExamStarted',
+  APPOINTMENT_CHECKIN_OVERRIDDEN: 'auditCheckinOverridden',
+  APPOINTMENT_LEFT: 'auditAppointmentLeft',
+  SHIFT_REGISTERED: 'auditShiftRegistered',
+  BOOKING_REQUEST_SUBMITTED: 'auditBookingSubmitted',
+  AI_ASSISTANT_CHAT: 'auditAiChat',
+  PATIENT_HISTORY_VIEWED: 'auditHistoryViewed',
+  PATIENT_HISTORY_LINK_ISSUED: 'auditHistoryLinkIssued',
+  CLINICAL_NOTE_UPSERTED: 'auditClinicalNoteSaved',
+  PRESCRIPTION_CREATED: 'auditPrescriptionCreated',
+  TREATMENT_CREATED: 'auditTreatmentCreated',
+  PERIOD_CREATED: 'auditPeriodCreated',
+  PERIOD_COMPUTED: 'auditPeriodComputed',
+  PERIOD_LOCKED: 'auditPeriodLocked',
+  CONSENT_WITHDRAWN: 'auditConsentWithdrawn',
+  BANK_TRANSFER_RECORDED: 'auditBankTransferRecorded',
+  BANK_TRANSFER_FLAGGED: 'auditBankTransferFlagged',
+  REFRESH_REUSE_DETECTED: 'auditRefreshReuse',
+  PRESCRIPTION_ALLERGY_OVERRIDE: 'auditAllergyOverride',
 };
 const ACTION_FILTERS = [
   'INVOICE_ISSUED', 'INVOICE_PAYMENT_RECORDED', 'INVOICE_VOIDED', 'USER_CREATED',
@@ -34,6 +58,9 @@ const TARGET_TYPE_LABEL_KEYS: Record<string, string> = {
   user: 'auditEntityUser', appointment: 'auditEntityAppointment', patient: 'auditEntityPatient',
   encounter: 'auditEntityEncounter', invoice: 'auditEntityInvoice',
   inventory_item: 'auditEntityInventory', role: 'auditEntityRole',
+  booking_request: 'auditEntityBookingRequest', SHIFT_REGISTRATION: 'auditEntityShift',
+  PAYROLL_PERIOD: 'auditEntityPayrollPeriod', ai_assistant: 'auditEntityAi', ConsentRecord: 'auditEntityConsent',
+  bank_transaction: 'auditEntityBankTransaction',
 };
 
 export default function AuditLogsPage() {

diff --git a/backend/prisma/seed-demo-clinic.ts b/backend/prisma/seed-demo-clinic.ts
@@ -853,23 +853,28 @@ async function main() {
     for (let m = 0; m <= MONTHS; m++) {
       const month = new Date(Date.UTC(start.getUTCFullYear(), start.getUTCMonth() + m, 5));
       if (month > today) break;
-      const items: Array<[string, number]> = [
-        ['Tiền thuê mặt bằng tháng', 25_000_000],
-        ['Tiền điện tháng', randInt(4, 7) * 1_000_000],
-        ['Tiền nước, internet tháng', randInt(8, 15) * 100_000],
-        ['Quảng cáo Facebook/Google tháng', randInt(3, 8) * 1_000_000],
-        ['Mua vật tư tiêu hao', randInt(5, 15) * 1_000_000],
+      // Each item goes to the category it belongs to (a random one made the
+      // expense list read "electricity bill · Medicine").
+      const items: Array<[string, number, string]> = [
+        ['Tiền thuê mặt bằng tháng', 25_000_000, 'Thuê mặt bằng'],
+        ['Tiền điện tháng', randInt(4, 7) * 1_000_000, 'Điện nước'],
+        ['Tiền nước, internet tháng', randInt(8, 15) * 100_000, 'Internet & điện thoại'],
+        ['Quảng cáo Facebook/Google tháng', randInt(3, 8) * 1_000_000, 'Marketing & quảng cáo'],
+        ['Mua vật tư tiêu hao', randInt(5, 15) * 1_000_000, 'Vật tư tiêu hao'],
       ];
-      for (const [desc, amount] of items) {
+      for (const [desc, amount, catName] of items) {
         n++;
         await prisma.expense.create({
           data: {
             code: `EXP-${String(n).padStart(5, '0')}`,
             amount: new Prisma.Decimal(amount),
             description: `${desc} ${month.getUTCMonth() + 1}/${month.getUTCFullYear()}`,
-            expenseDate: new Date(month.getTime() + randInt(0, 20) * DAY_MS),
+            // Never after today: a future expense date reads as a typo.
+            expenseDate: new Date(
+              Math.min(month.getTime() + randInt(0, 20) * DAY_MS, today.getTime()),
+            ),
             status: 'APPROVED',
-            categoryId: pick(cats).id,
+            categoryId: (cats.find(c => c.name === catName) ?? pick(cats)).id,
             notes: NOTE,
             createdBy: admin.id,
           },

diff --git a/docs/progress/session-log.md b/docs/progress/session-log.md
@@ -154,3 +154,5 @@
 - Locales vi: sửa thêm 'clinical note', 'status', 'AI summary' (giữ từ vay quen: check-in, online, link, Dashboard).
 - Đối chiếu mô tả ↔ ảnh Chương 4: sửa mô tả Hình 4.27 (kho: nút Sắp hết, mục Nên nhập), 4.34 (thẻ thật: bệnh nhân, lịch hẹn, doanh số, đã thu; không có công nợ), 4.35 (3 mức đánh giá), 4.32 (mẫu khám nhanh).
 - Sửa mô tả Hình 4.4 (3 thẻ thật), 4.5 (các thao tác điều phối). Lỗi giao diện: trang Yêu cầu đặt lịch của lễ tân hiện 'Bạn đã đồng ý giờ mới' (chuỗi của khách) → thêm nhãn bookingStateStaff_PATIENT_ACCEPTED 'Khách đã đồng ý giờ mới' (vi/en); chụp lại Hình 4.7.
+- Nhật ký kiểm toán: thêm nhãn vi/en cho 24 mã hành động và 6 loại đối tượng (AuditLogsPage.tsx, uiWorkforce); chụp lại Hình 4.39 (lọc đối tượng Hóa đơn ngày 15/11), sửa mô tả.
+- Seed demo chi phí: gắn danh mục theo tên (trước chọn ngẫu nhiên) và không để ngày chi ở tương lai; cập nhật dữ liệu demo cục bộ, chụp lại Hình 4.33. tsc/eslint sạch (backend + frontend).

diff --git a/docs/10_Thesis/bao-cao/14-chuong-4.md b/docs/10_Thesis/bao-cao/14-chuong-4.md
@@ -687,7 +687,7 @@ Nguồn: Tác giả, chụp từ hệ thống GenSmile
 
 ### 4.5.9. Người dùng, phân quyền, nhật ký và thông báo
 
-Quản trị viên quản lý vai trò và tích chọn từng quyền cho vai trò (Hình 4.38). Nhật ký kiểm toán (Hình 4.39) cho phép lọc theo người thực hiện, loại hành động, khoảng thời gian và xem chi tiết từng thay đổi.
+Quản trị viên quản lý vai trò và tích chọn từng quyền cho vai trò (Hình 4.38). Nhật ký kiểm toán (Hình 4.39) cho phép lọc theo loại hành động, loại đối tượng, khoảng ngày và tìm theo người thực hiện, xem chi tiết từng thay đổi và xuất CSV. Hình minh họa bộ lọc các thao tác trên hóa đơn trong ngày 15/11/2026: lễ tân phát hành hóa đơn, khoản chuyển khoản được hệ thống tự ghi nhận, và một chuyển khoản khác bị đưa vào danh sách cần xử lý.
 
 ::: {custom-style="Ảnh"}
 ![](hinh/4-ql-phan-quyen.png){width=15cm}
